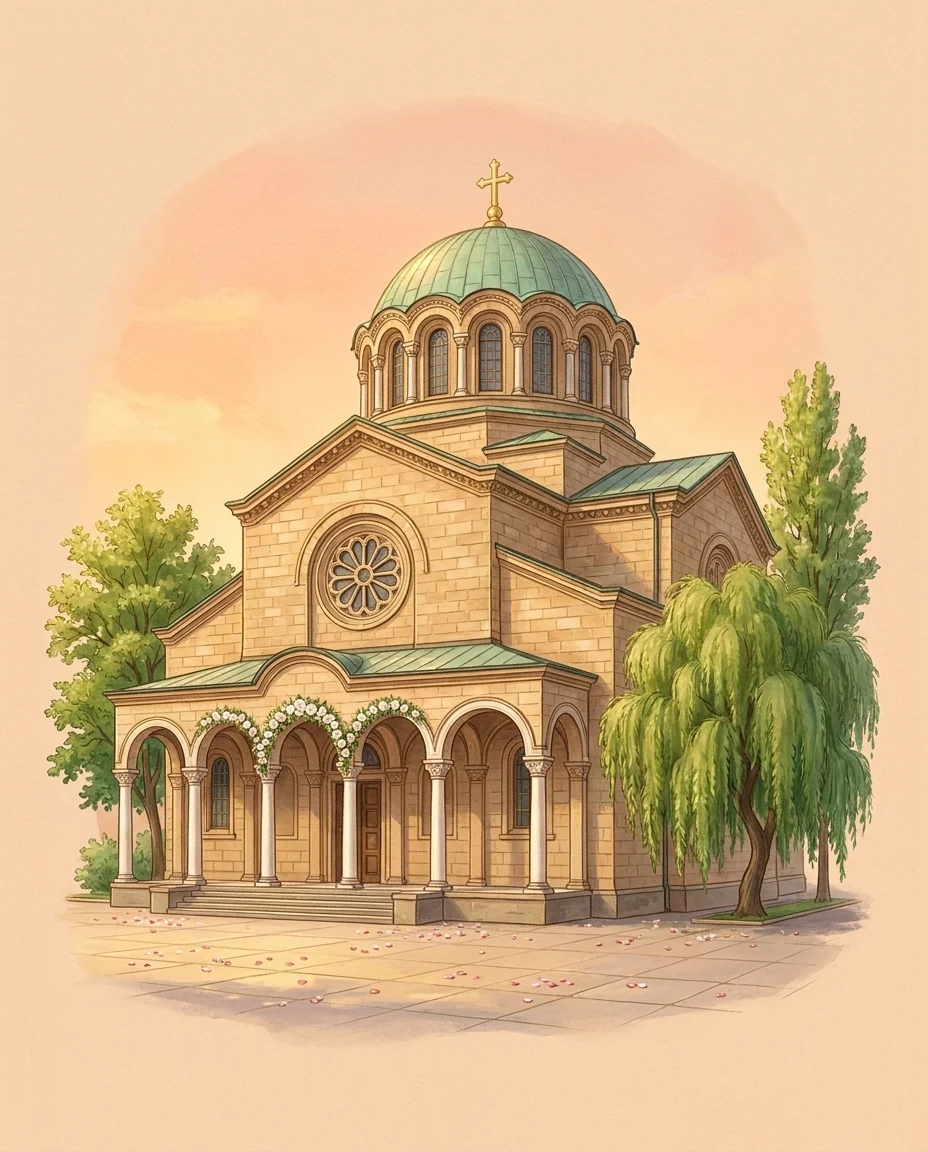
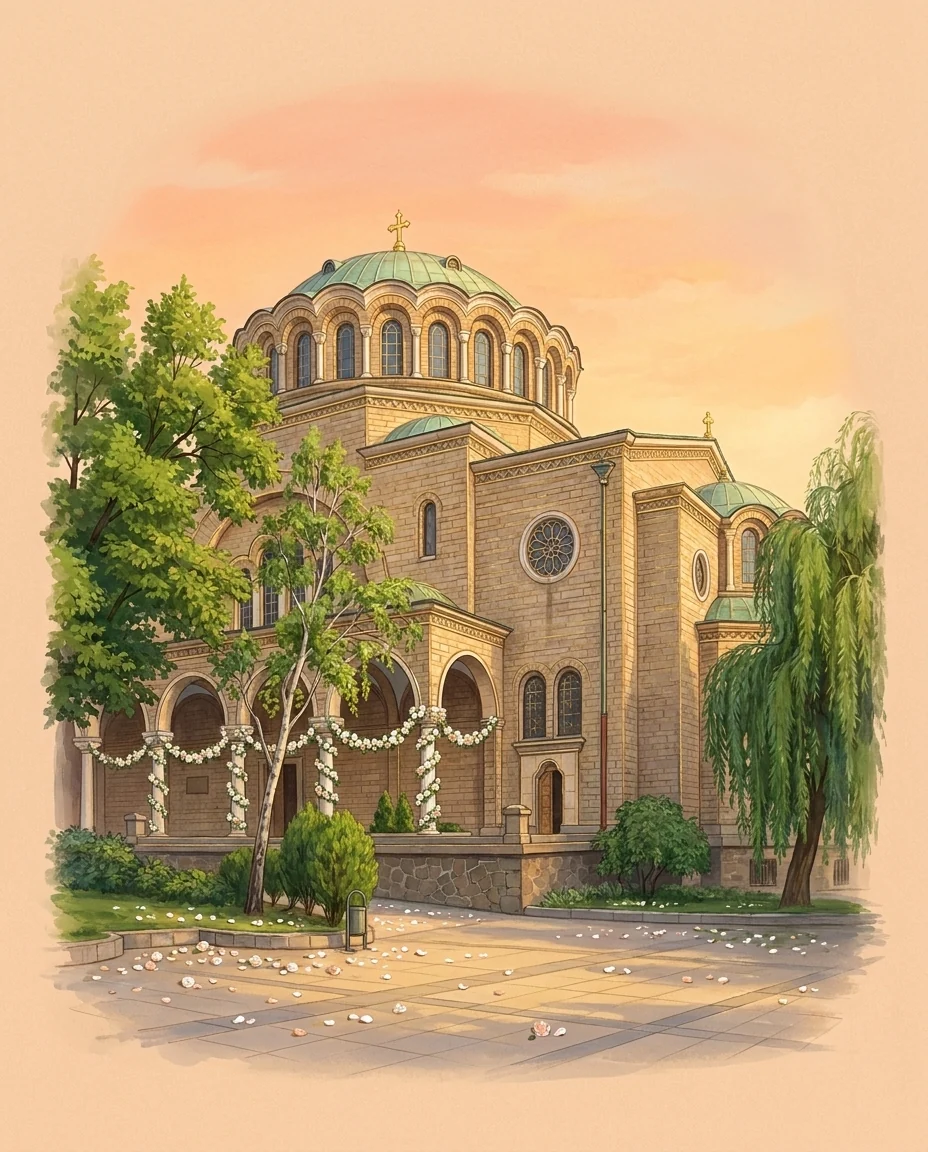
feat: St. Nedelya painting from the couple's photo angle (v2-a)

diff --git a/index.html b/index.html
@@ -139,7 +139,7 @@
           <p class="v-step reveal-up">14:00 · Църковен ритуал</p>
           <h2 class="v-title v-title-sm reveal-up">Катедрален храм<br>„Света Неделя“</h2>
           <figure class="v-art reveal-up">
-            <img src="assets/church.webp?v=1" alt="Катедралният храм „Света Неделя“ в София" loading="lazy" onerror="this.parentElement.hidden=true">
+            <img src="assets/church.webp?v=2" alt="Катедралният храм „Света Неделя“ в София" loading="lazy" onerror="this.parentElement.hidden=true">
           </figure>
           <div class="v-card reveal-up">
             <p class="v-label">Адрес</p>
